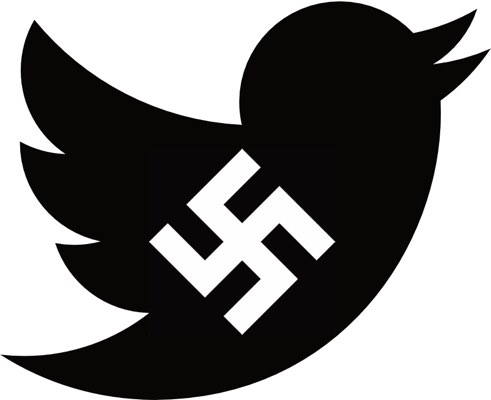
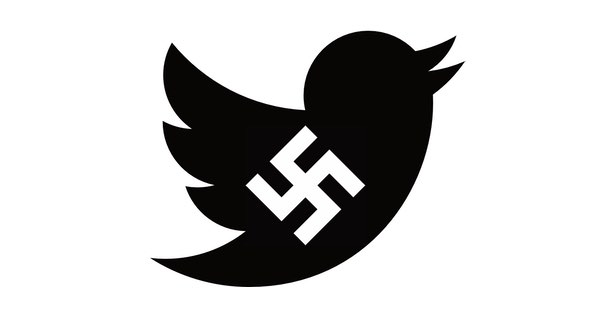
More updates

diff --git a/themes/wrongdog/layouts/partials/head/head.html b/themes/wrongdog/layouts/partials/head/head.html
@@ -25,7 +25,7 @@
     {{ end -}}
 
     <!-- add a direct Twitter card link -->
-    <meta name="twitter:image" content="https://whatiswrongwithyourdog.netlify.com/og/twitter.jpg"/>
+    <meta name="twitter:image" content="https://whatiswrongwithyourdog.netlify.com/og/twittika.jpg"/>
     <meta name="twitter:title" content="Twitter is run by a Nazi" />
     <meta name="twitter:description" content="Twitter is owned by a fascist and now actively promotes fascist and nazi thought and content. Isn't it about time you left?" />
 
